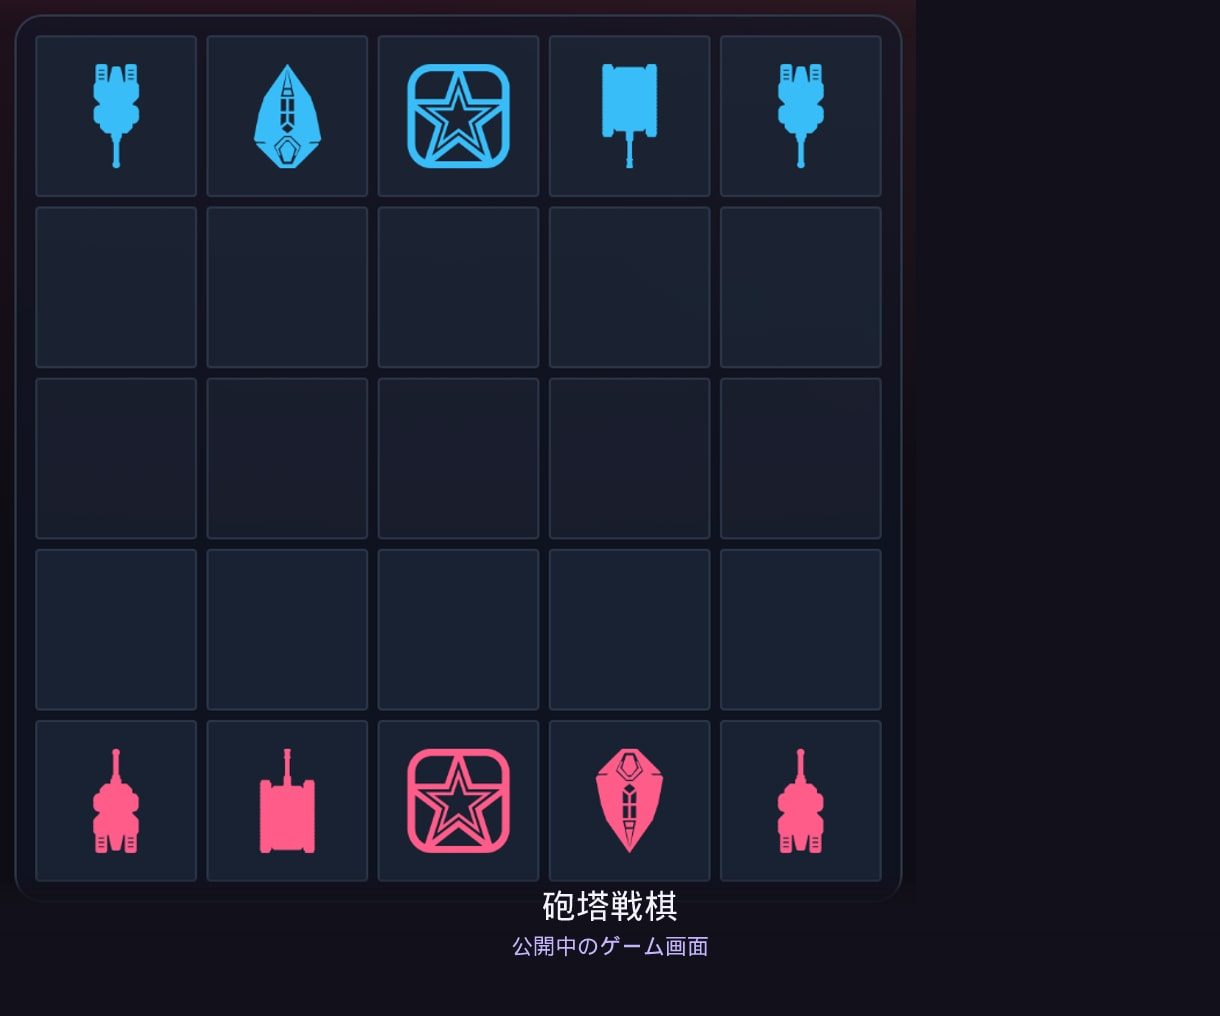
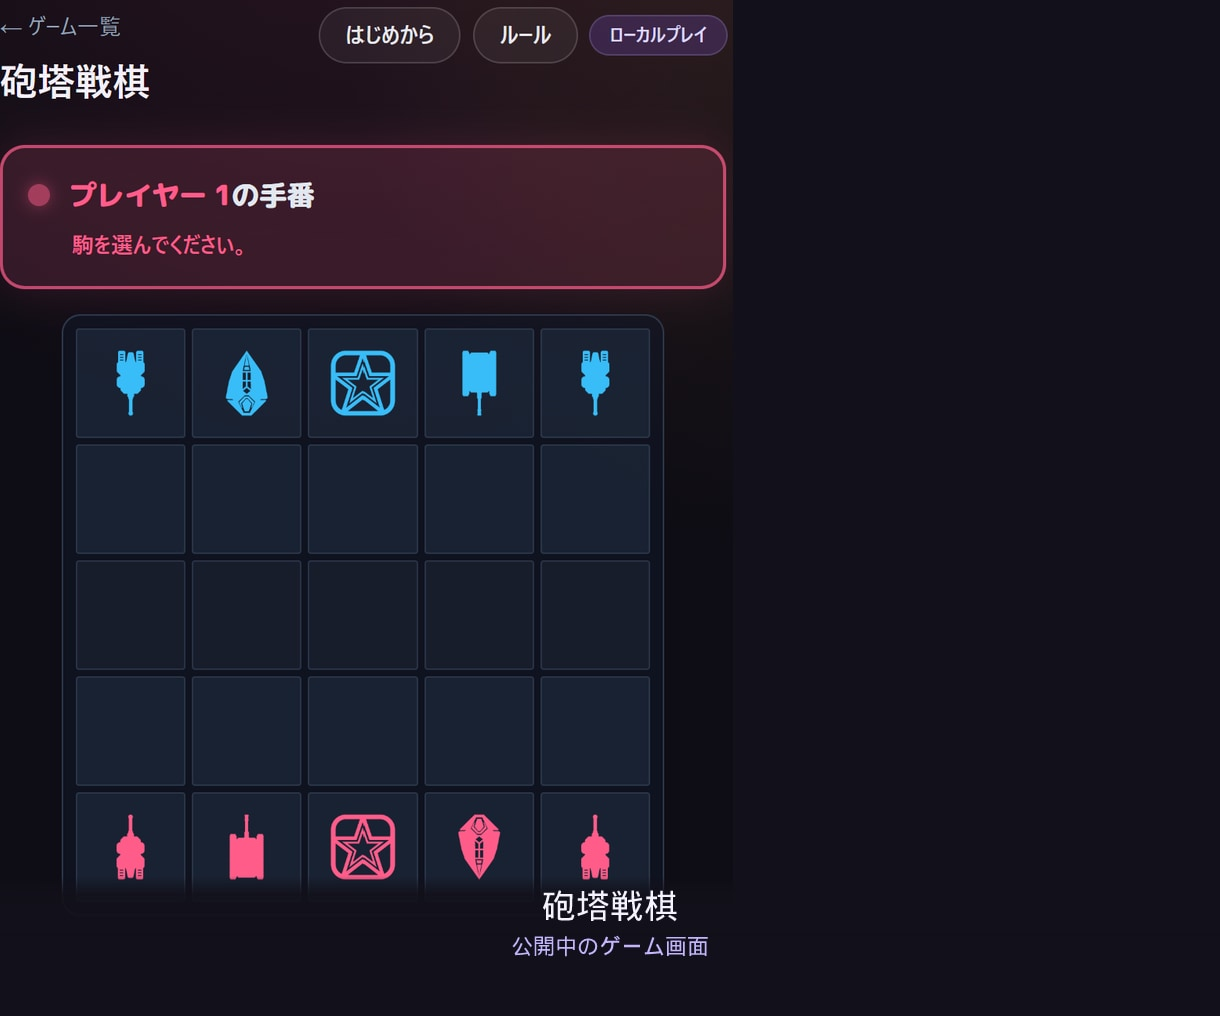
docs(coconala): 砲塔戦棋サムネを手動スクショに差し替え

diff --git a/docs/coconala/listing.md b/docs/coconala/listing.md
@@ -43,7 +43,7 @@
 
 | # | ファイル | ゲーム（slug） |
 |---|----------|----------------|
-| 2 | [thumbnail-02.jpg](./thumbnail-02.jpg) | 砲塔戦棋（`senkai-senki`） |
+| 2 | [thumbnail-02.jpg](./thumbnail-02.jpg) | 砲塔戦棋（手動スクショ → [sources/thumbnail-02-source.png](./sources/thumbnail-02-source.png)） |
 | 3 | [thumbnail-03.jpg](./thumbnail-03.jpg) | マンカラ・カラハ（`mancala`） |
 | 4 | [thumbnail-04.jpg](./thumbnail-04.jpg) | ルドー（`ludo`） |
 
